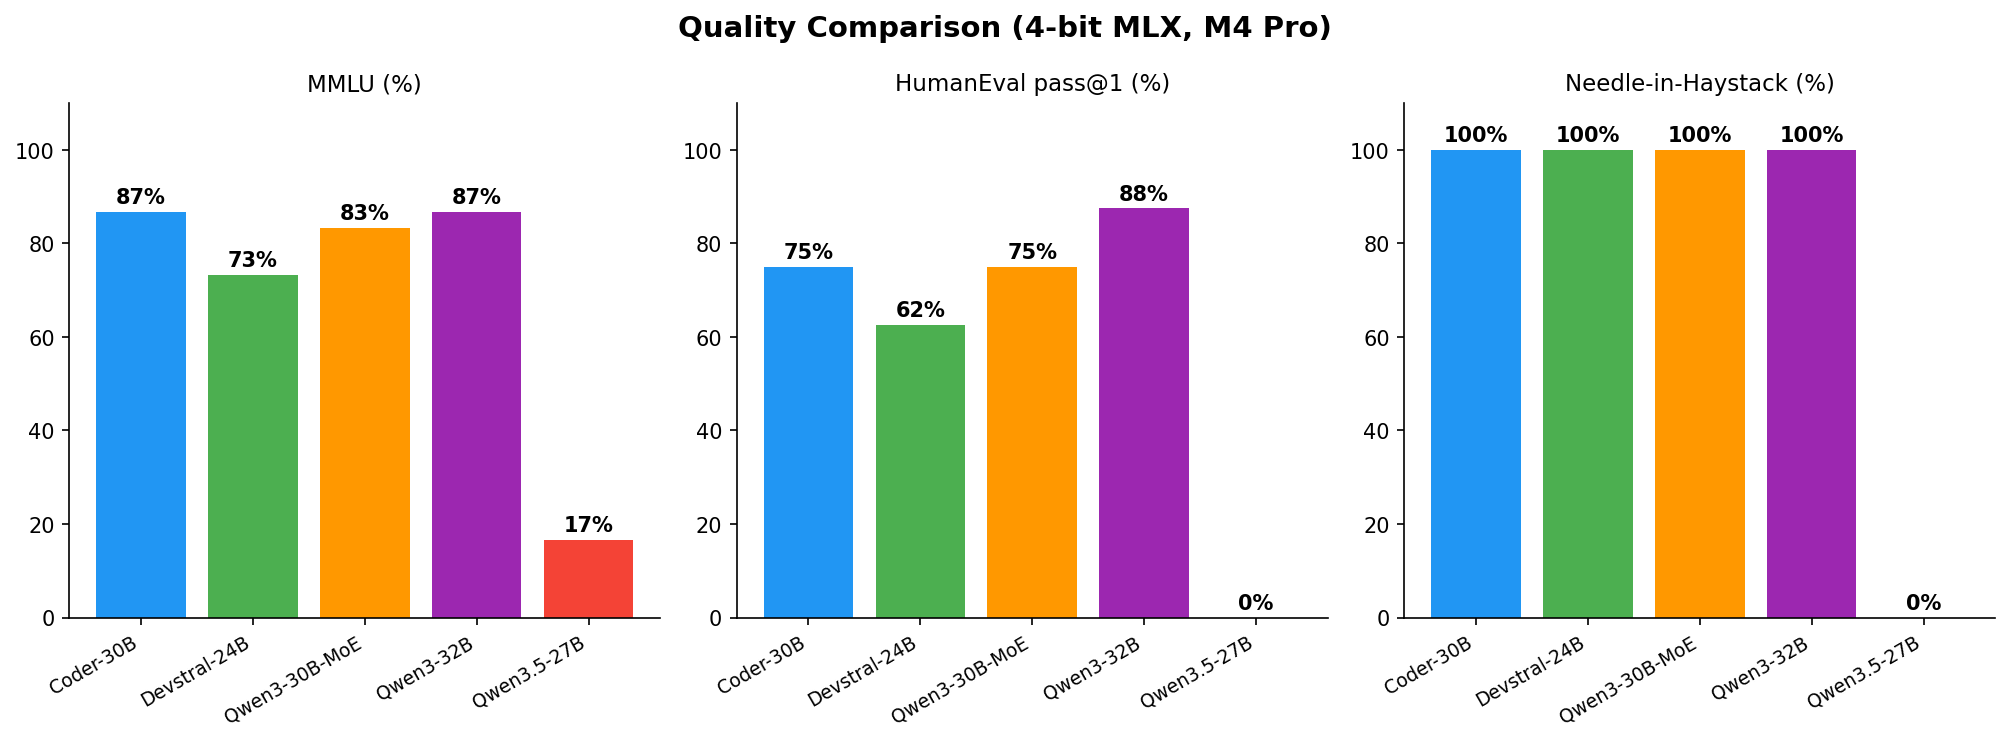
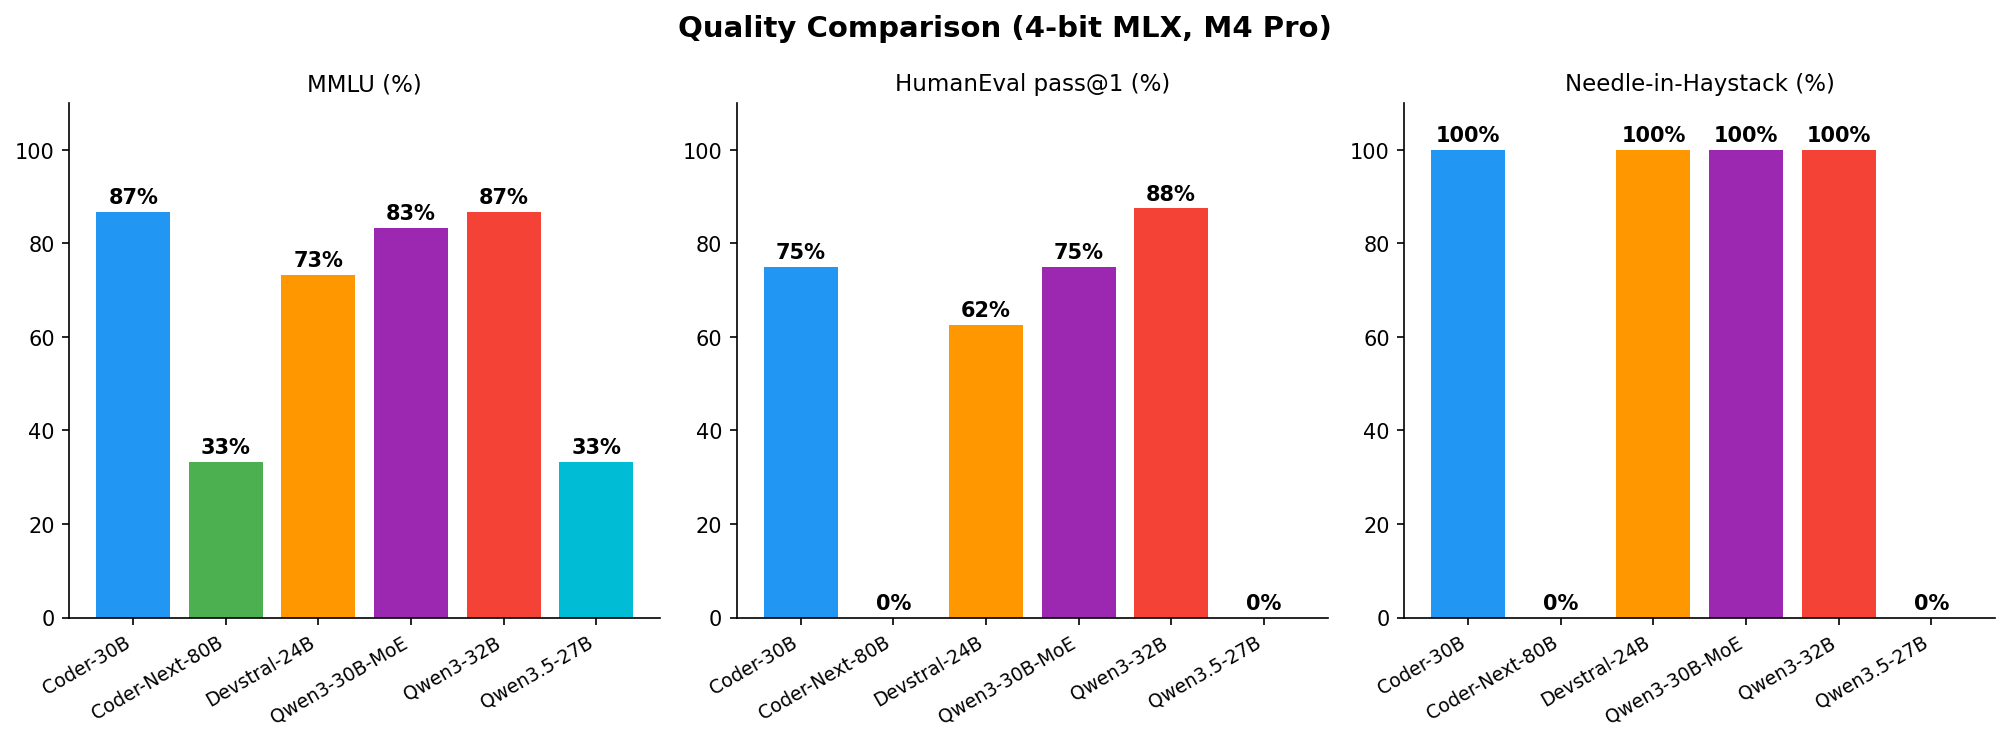
Fix eval_and_chart color palette for 6+ models; regenerate quality chart
Hardcoded palette had only 5 entries — 6th model raised IndexError.
Now uses 10-color palette with modulo wraparound. Quality chart now
shows all 6 models including the two broken DeltaNet hybrids
(Qwen3.5-27B, Coder-Next-80B) for visible contrast against the four
healthy ones.

diff --git a/scripts/eval/eval_and_chart.py b/scripts/eval/eval_and_chart.py
@@ -336,7 +336,10 @@ def generate_charts():
         axes = [axes]
     fig.suptitle("Quality Comparison (4-bit MLX, M4 Pro)", fontsize=14, fontweight="bold")
 
-    colors = ["#2196F3", "#4CAF50", "#FF9800", "#9C27B0", "#F44336"][:len(tags)]
+    base_colors = ["#2196F3", "#4CAF50", "#FF9800", "#9C27B0", "#F44336",
+                   "#00BCD4", "#795548", "#607D8B", "#E91E63", "#CDDC39"]
+    # Repeat colors if we have more tags than the palette
+    colors = [base_colors[i % len(base_colors)] for i in range(len(tags))]
     for ax, (title, data) in zip(axes, benchmarks):
         vals = [v * 100 if v is not None else 0 for v in data]
         tested = [v is not None for v in data]
